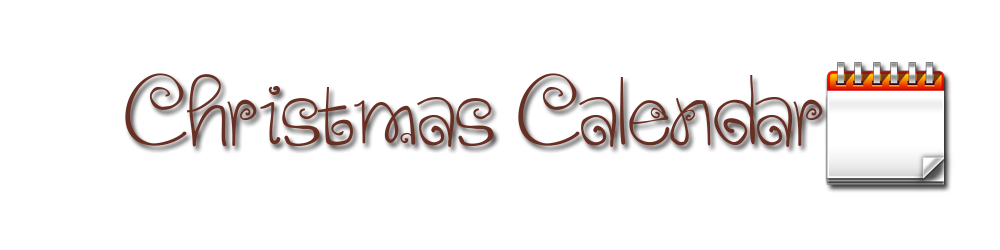
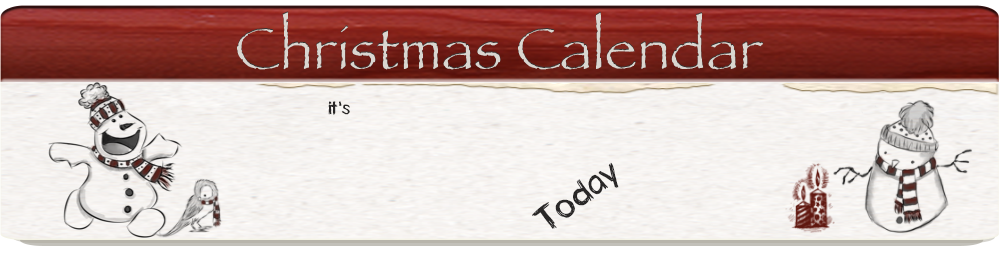
change header

diff --git a/web/WEB-INF/resources/default/1_0/css/style.css b/web/WEB-INF/resources/default/1_0/css/style.css
@@ -46,8 +46,8 @@ body {
 }
 
 header {
-    background: url(#{resource[ 'default:images/header.png' ]}) top no-repeat;
-    height: 260px;
+    background: url(#{resource[ 'default:images/banner.png' ]}) top no-repeat;
+    height: 255px;
     width: 1000px;
     margin: auto;
 }
